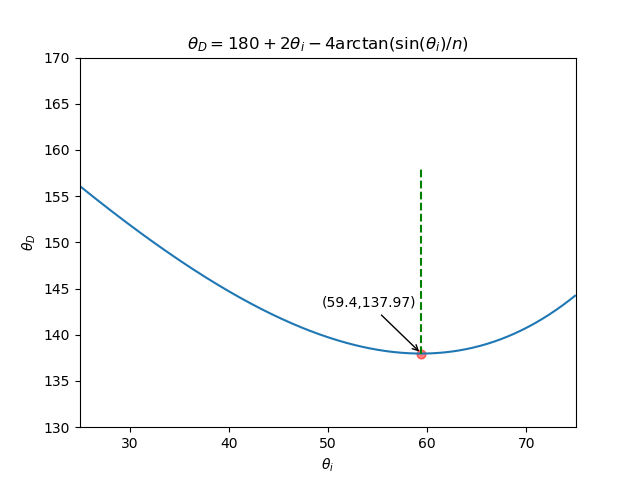
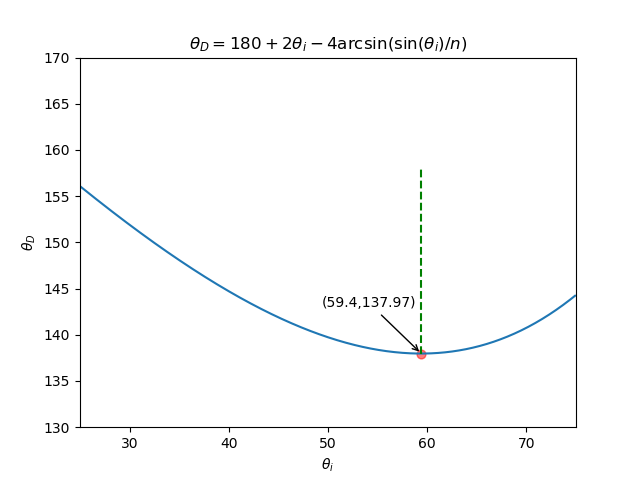
revised post

Changed region(s): [[0.5, 0.0625, 0.75, 0.125], [0.3438, 0.0625, 0.4688, 0.125], [0.2812, 0.0625, 0.3438, 0.125]]

diff --git a/_posts/2018-06-26-rainbow.md b/_posts/2018-06-26-rainbow.md
@@ -15,7 +15,7 @@ tags : [rainbow, python]
 
 通过几何分析计算，可求得入射光偏转角$$\theta_D$$与入射角$$\theta_i$$的关系
 
-$$\theta_D = 180^{\circ} + 2\theta_i - 4\arctan(\frac{\sin\theta_i}{n})$$
+$$\theta_D = 180^{\circ} + 2\theta_i - 4\arcsin(\frac{\sin\theta_i}{n})$$
 
 其中，$$n$$为水的折射率，下图中$$n=4/3$$.
 
@@ -57,7 +57,7 @@ plt.annotate(str_note,(min_theta_i,min_theta_D),
              xycoords='data',
              xytext=(min_theta_i-10,min_theta_D+5),  
               arrowprops = dict(arrowstyle = '->'))
-str_func = r"$\theta_D = 180 + 2\theta_i - 4\arctan(\sin(\theta_i)/n)$"
+str_func = r"$\theta_D = 180 + 2\theta_i - 4\arcsin(\sin(\theta_i)/n)$"
 #plt.text(40,165,str_func);
 plt.title(str_func)
 plt.show()

diff --git a/_posts/2017-10-16-how-to-install-matlab2016b-on-Ubuntu.md b/_posts/2017-10-16-how-to-install-matlab2016b-on-Ubuntu.md
@@ -71,13 +71,13 @@ Open a new terminal (such as, press `CTRL+ALT+T`), and type command in the follo
 ```
 $ mkdir /media/[YOUR-USERNAME]/Matlab_R2016b
 $ sudo umount /media/[YOUR-USERNAME]/Matlab_R2016b
-$ sudo mount -t auto -o loop *dvd2.iso /media/Matlab_R2016b
+$ sudo mount -t auto -o loop *dvd2.iso /media/[YOUR-USERNAME]/Matlab_R2016b
 ```
 
 Step 5: Complete the installation
 -------------------------------------------------
 
-Once finished the installing in the GUI, then umount the dvd2 from `/media/Matlab_R2016b`.
+Once finished the installing in the GUI, then umount the dvd2 from `/media/[YOUR-USERNAME]/Matlab_R2016b`.
 
 ```
 $ sudo umount /media/[YOUR-USERNAME]/Matlab_R2016b
